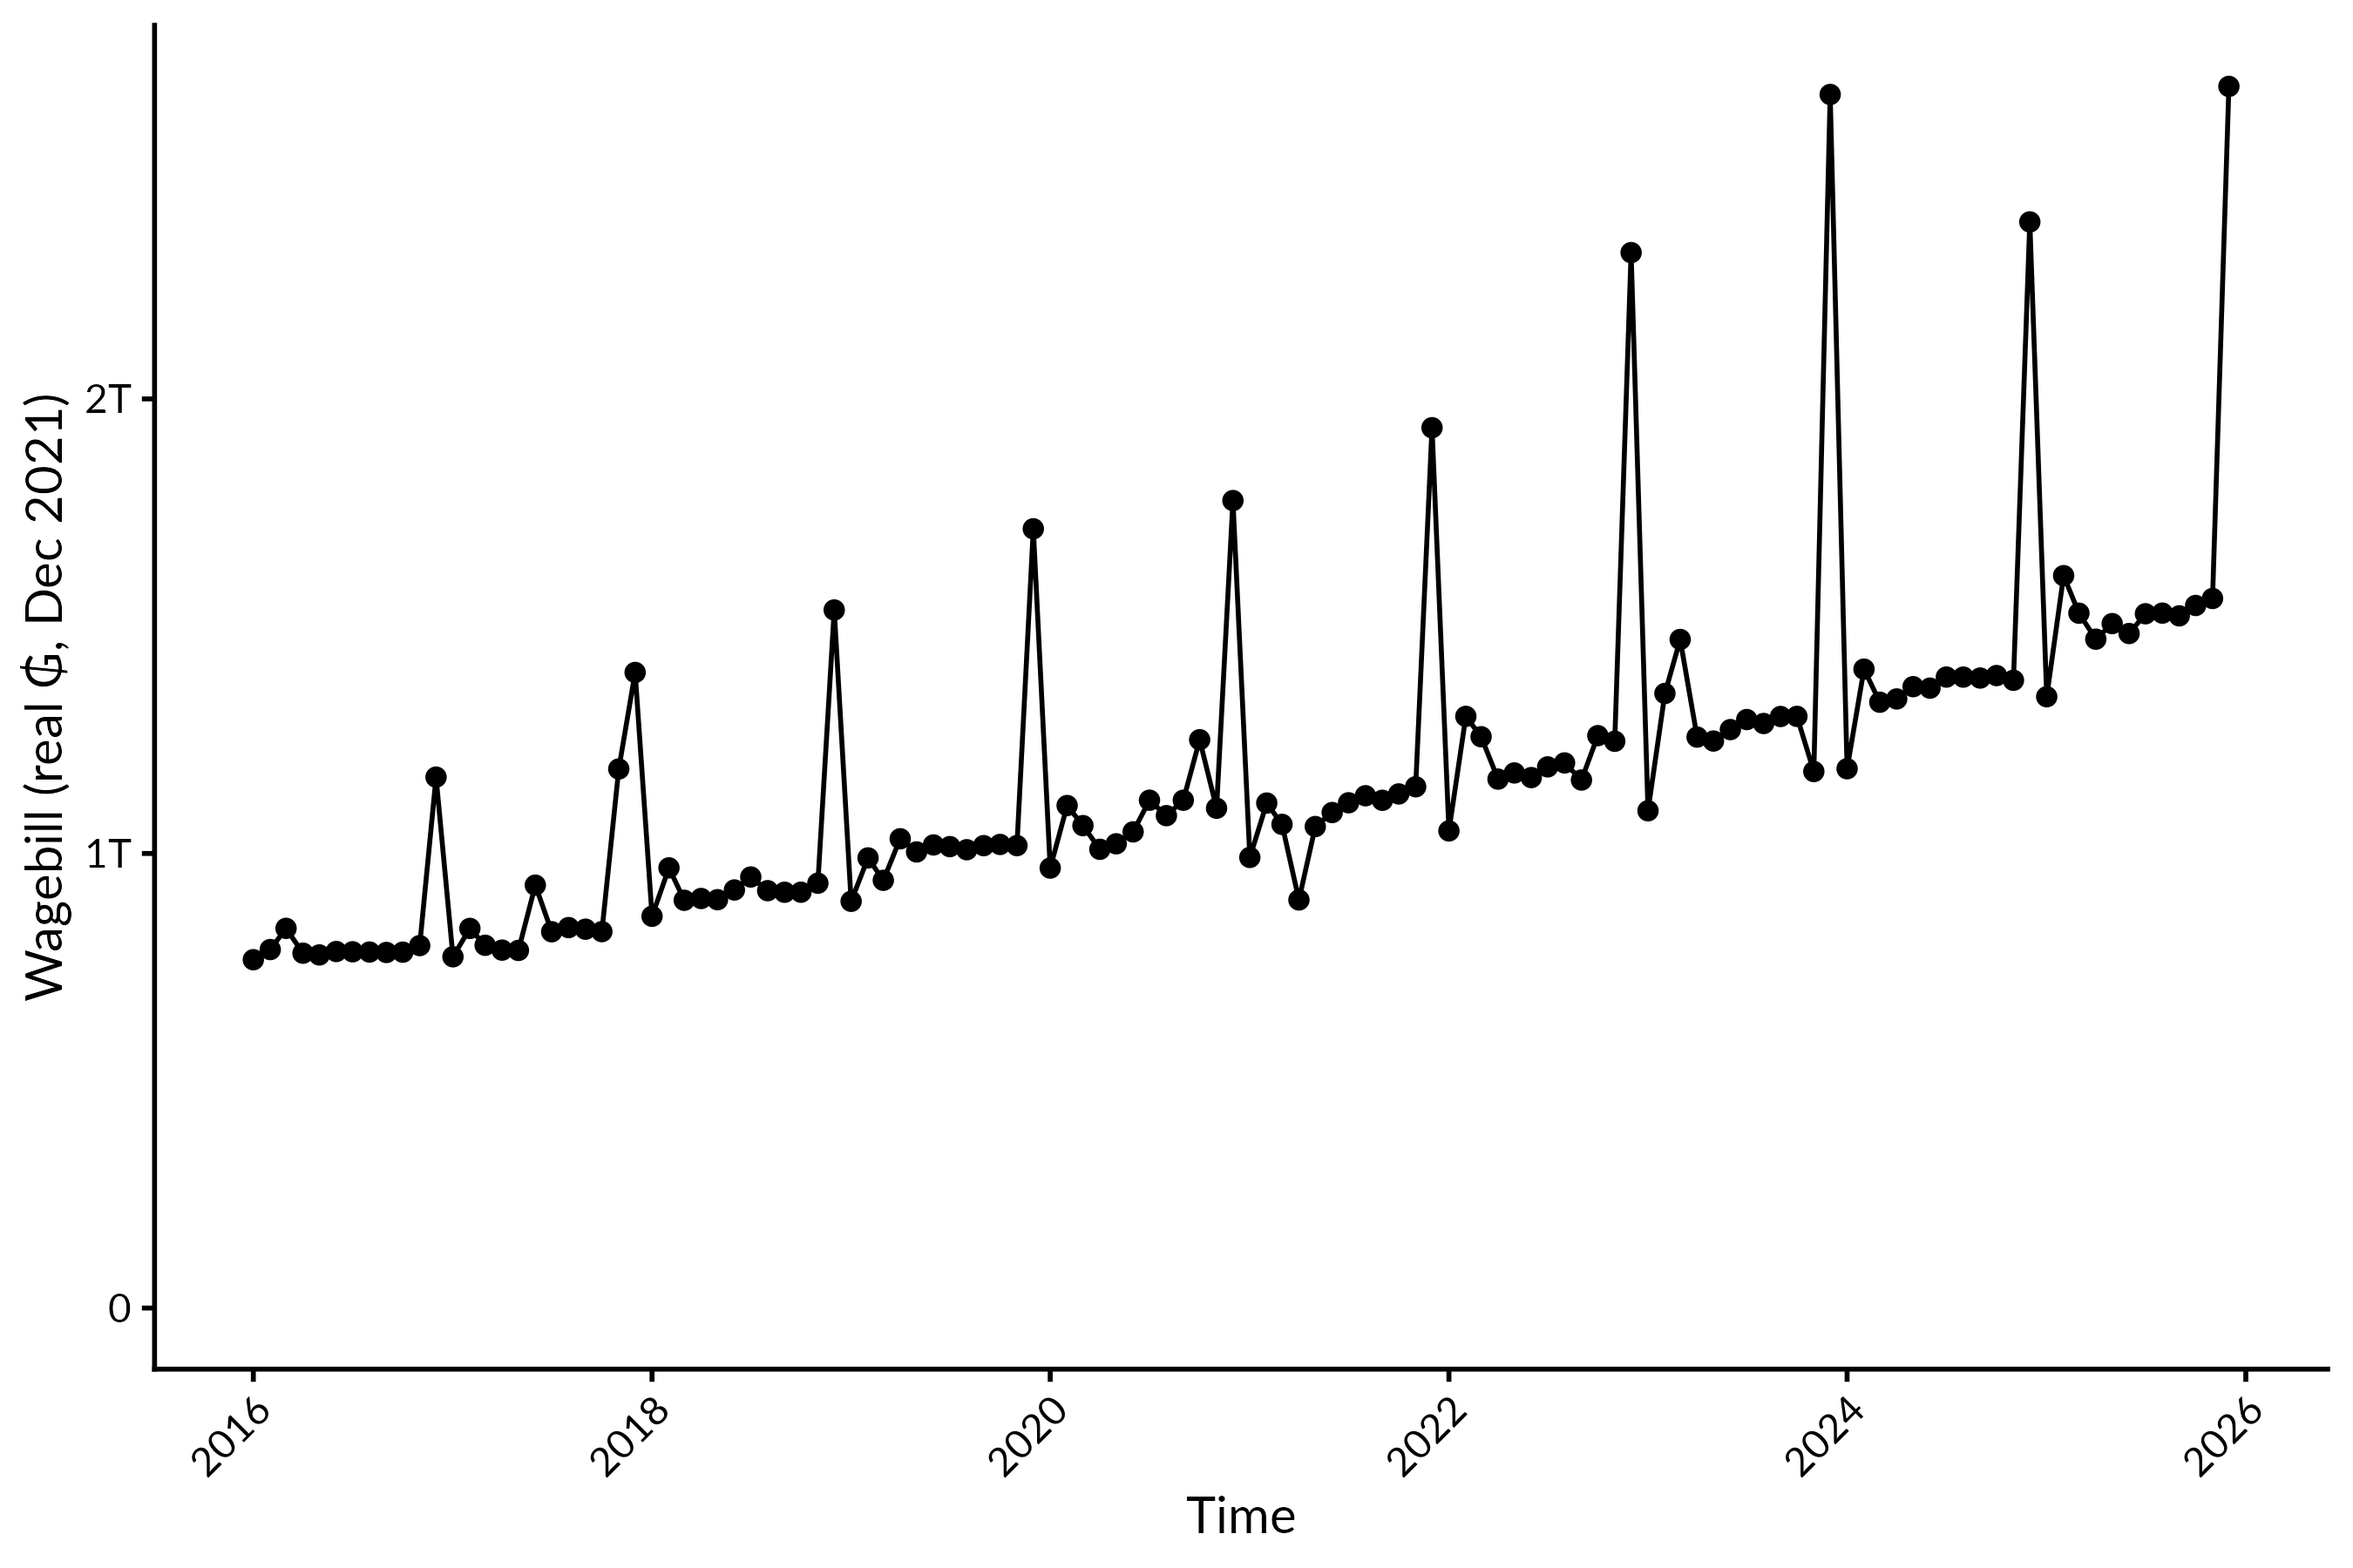
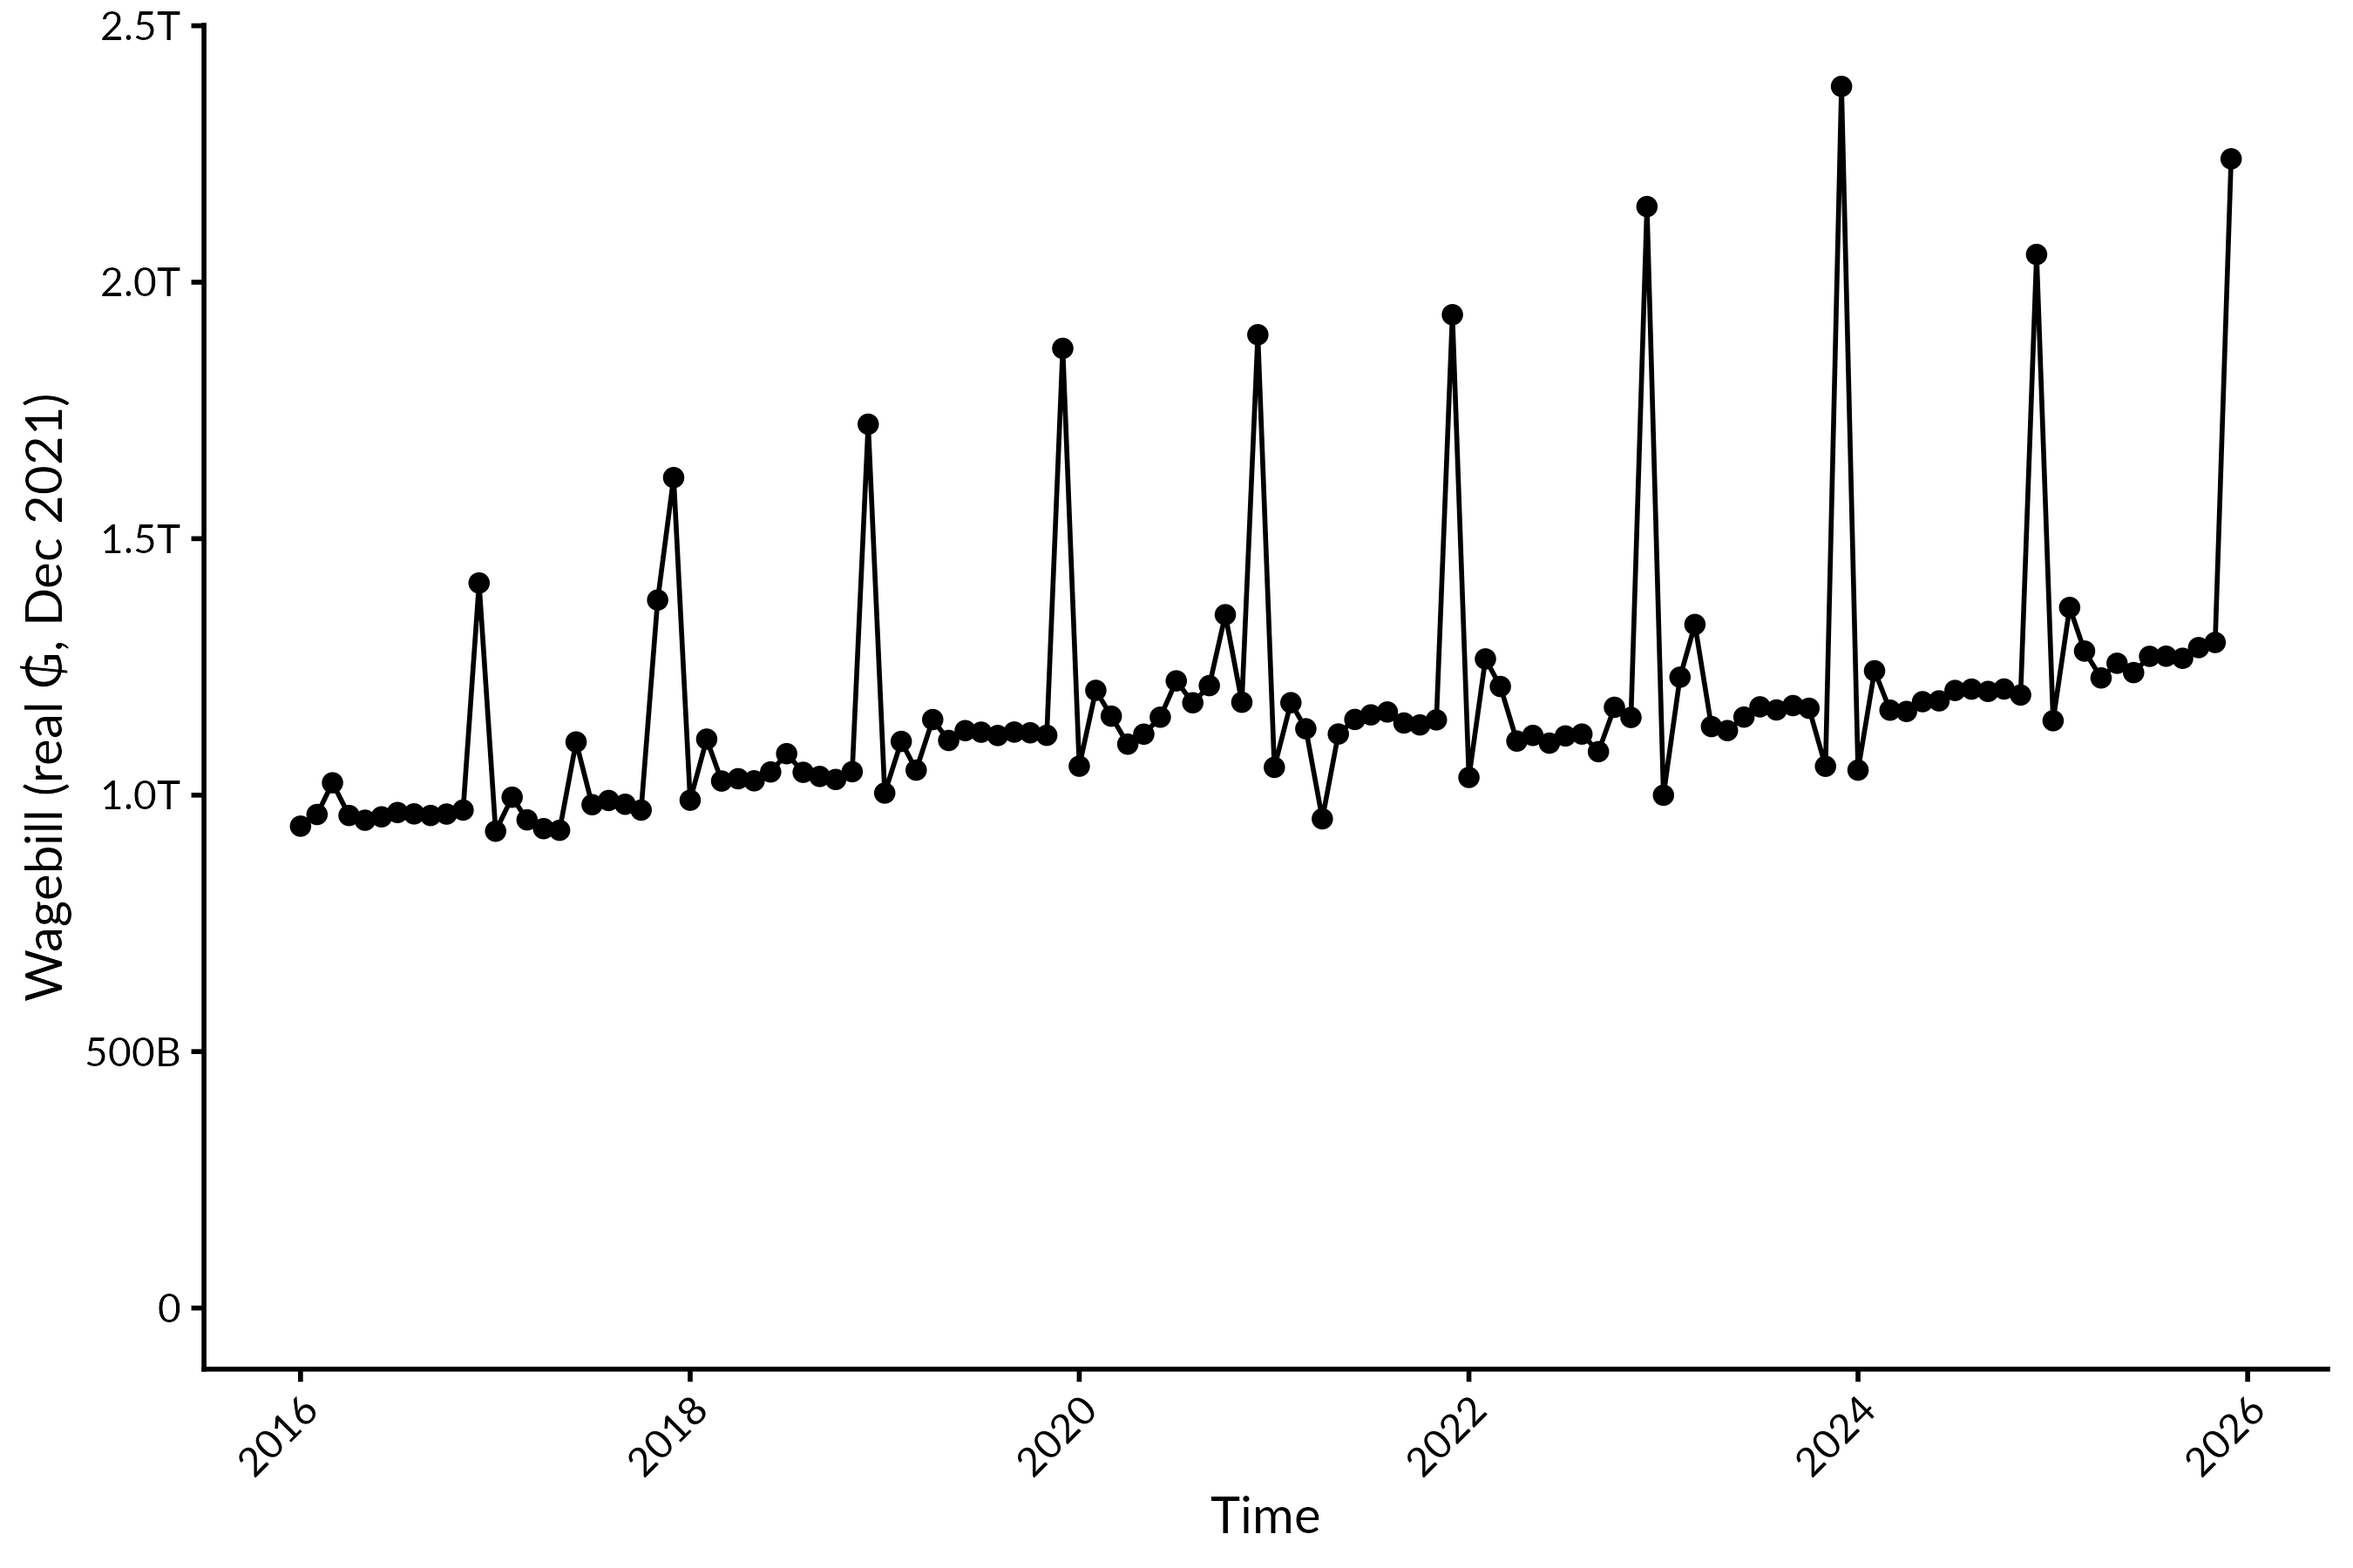
add README and fix deflation issues

diff --git a/README.md b/README.md
@@ -1,2 +1,114 @@
 # govhr-pry
-A repository to clean and analyze HR data from Paraguay
+
+This repository cleans, harmonizes and analyzes Paraguay's public-sector HR microdata. 
+
+The data pipeline turns the monthly civil-servant payroll files published by the Secretaría de la Función Pública (SFP) into the standard [`govhr`](https://github.com/WB-PIDA-Data-Science-Shop/govhr) data modules (establishments, personnel, contracts).
+
+It then produces workforce and wage-bill analytics for the central government (Poder Ejecutivo).
+
+## Repository structure
+
+```
+govhr-pry/
+├── etl/
+│   ├── 1-extract.R          # download every monthly funcionarios_YYYY_M.csv from datos.sfp.gov.py
+│   └── 2-harmonize.R        # build the DuckDB database, one year at a time, and set primary keys
+├── R/
+│   ├── harmonize.R          # harmonize_hr(): raw SFP file -> govhr modules; harmonize_cpi(): monthly CPI from the IMF
+│   ├── parse_whours.R       # parse_whours(): free-text schedules (carga_horaria) -> weekly working hours
+│   └── analysis.R           # DuckDB-friendly versions of govhr indicators (headcount, wage bill, movements, ...)
+├── analysis/
+│   ├── source/
+│   │   ├── workforce_analytics.R   # headcount, composition, hires/separations, transitions
+│   │   ├── wagebill_analytics.R    # wage bill, growth decomposition, compensation
+│   │   └── standard_analytics.R    # earlier combined script (workforce + CPI deflation)
+│   └── figs/                # PNG output of the analysis scripts
+├── references/              # SFP data dictionary and MEF budget classifier (PGN 2026)
+├── data/                    # symlink to the shared OneDrive folder (git-ignored)
+│   ├── data-raw/            # funcionarios_YYYY_M.csv.gz, as published (UTF-8)
+│   └── data-clean/          # govhr_pry.duckdb
+└── renv.lock                # pinned R package versions
+```
+
+## Running the pipeline
+
+Run from the project root. `data/` must point to the shared data folder.
+
+```r
+renv::restore()              # install pinned packages, including govhr
+source("etl/1-extract.R")    # ~140 monthly files
+source("etl/2-harmonize.R")  # rebuilds data/data-clean/govhr_pry.duckdb from scratch
+source("analysis/source/workforce_analytics.R")
+source("analysis/source/wagebill_analytics.R")
+```
+
+Indicators in `R/analysis.R` are written so they run inside DuckDB (via dbplyr/duckplyr) rather than in memory. Each person-month is spread over several payroll lines, so the full panel is too large to load into R.
+
+## Data
+
+**Source.** SFP open data, *Funcionarios* dataset ([datos.sfp.gov.py](https://datos.sfp.gov.py/data/funcionarios/download)). There is one file per month, and each row is one payroll line: a person × position × object of expenditure. A typical month has about 1.6M rows. The column definitions are in [references/diccionario_funcionarios.pdf](references/diccionario_funcionarios.pdf).
+
+**Time frame.** The raw data is monthly, from January 2015 to August 2026 (140 months, no gaps). The analysis scripts restrict to **January 2016 to December 2025**, because the 2015 data appears to have gaps.
+
+**Coverage.** The database includes all branches and levels of government in the SFP files (`adm1`). The analysis keeps only `adm1 == "PODER EJECUTIVO"`.
+
+**Money.** All amounts are in nominal guaraníes (`_lcu`) and are taken from the budgeted amount (`presupuestado`). `harmonize_cpi()` downloads the monthly headline CPI (BCP series via the IMF, rebased to Dec 2021 = 100) for deflating to real terms.
+
+### Modules (`data/data-clean/govhr_pry.duckdb`)
+
+All tables are monthly panels keyed by `ref_date` (first day of the month).
+
+#### `pry_est`: establishments (key: `est_id`, `ref_date`)
+
+| Variable | Description | Source column |
+|---|---|---|
+| `est_id` | `adm1_code-adm2_code-adm3_code` | |
+| `adm1_code`, `adm1` | Level (e.g. Poder Ejecutivo, Poder Legislativo) | `nivel`, `descripcion_nivel` |
+| `adm2_code`, `adm2` | Entity (e.g. a ministry) | `entidad`, `descripcion_entidad` |
+| `adm3_code`, `adm3` | Organism / executing unit (OEE) | `oee`, `descripcion_oee` |
+| `est_name_native` | Establishment name (= `adm3`) | |
+| `country_code`, `country_name` | `PRY`, `Paraguay` | |
+
+#### `pry_personnel`: people (key: `personnel_id`, `ref_date`)
+
+| Variable | Description | Source column |
+|---|---|---|
+| `personnel_id` | National ID number | `documento` |
+| `birth_date`, `age` | Date of birth; age in years at `ref_date` | `fecha_nacimiento` |
+| `gender` | `FEMENINO` / `MASCULINO` | `sexo` |
+| `first_employment_date` | Year of entry into the public service (earliest value reported for the person) | `anho_ingreso` |
+| `employment_status` | Always `active` (only people on payroll appear) | |
+
+#### `pry_contracts`: positions and pay (key: `contract_id`, `ref_date`)
+
+A contract is one person in one occupation at one establishment.
+
+| Variable | Description | Source column |
+|---|---|---|
+| `contract_id` | SHA-256 of `est_id` + `personnel_id` + `occupation` | |
+| `est_id`, `personnel_id` | Links to `pry_est` and `pry_personnel` | |
+| `contract_type` | `permanent` (PERMANENTE) or `fixed-term` (CONTRATADO, COMISIONADO) | `estado` |
+| `paygrade` | Budget category; `NA` if *sin categoría* | `categoria` |
+| `occupation` | Position title, normalized (upper case, no accents) | `cargo` |
+| `base_salary_lcu` | Base salary: object of expenditure 111 | `presupuestado` |
+| `allowance_lcu` | All other personnel expenditure objects (1xx): bonuses, allowances, etc. | `presupuestado` |
+| `gross_salary_lcu` | `base_salary_lcu` + `allowance_lcu` | `presupuestado` |
+| `whours` | Weekly working hours parsed from free text (`NA` if unparseable or outside 0–168) | `carga_horaria` |
+
+Only objects of expenditure in group 1 (*servicios personales*) count as pay. See [references/CLASIFICADOR _PRESUPUESTARIO_PGN2026.pdf](references/CLASIFICADOR%20_PRESUPUESTARIO_PGN2026.pdf).
+
+## Analysis
+
+The analysis scripts follow the standard `govhr` diagnostic of public-sector employment and pay. Each produces the figures in [analysis/figs/](analysis/figs/).
+
+**Workforce** ([workforce_analytics.R](analysis/source/workforce_analytics.R))
+- Headcount over time: total, by establishment, by contract type, and by age group.
+- Workforce movements: monthly hire and separation rates, overall and for the nine largest establishments, plus net rates.
+- Career transitions: a network of moves between establishments.
+
+**Wage bill and compensation** ([wagebill_analytics.R](analysis/source/wagebill_analytics.R))
+- Wage bill level and growth: total, by establishment, and split into base salary and allowances.
+- Composition of the wage bill: share paid as base salary vs. allowances.
+- Growth decomposition of the wage bill into employment, compensation and interaction effects.
+- Average compensation: by salary component, contract type and gender.
+- Compensation distribution: overall and by gender.
